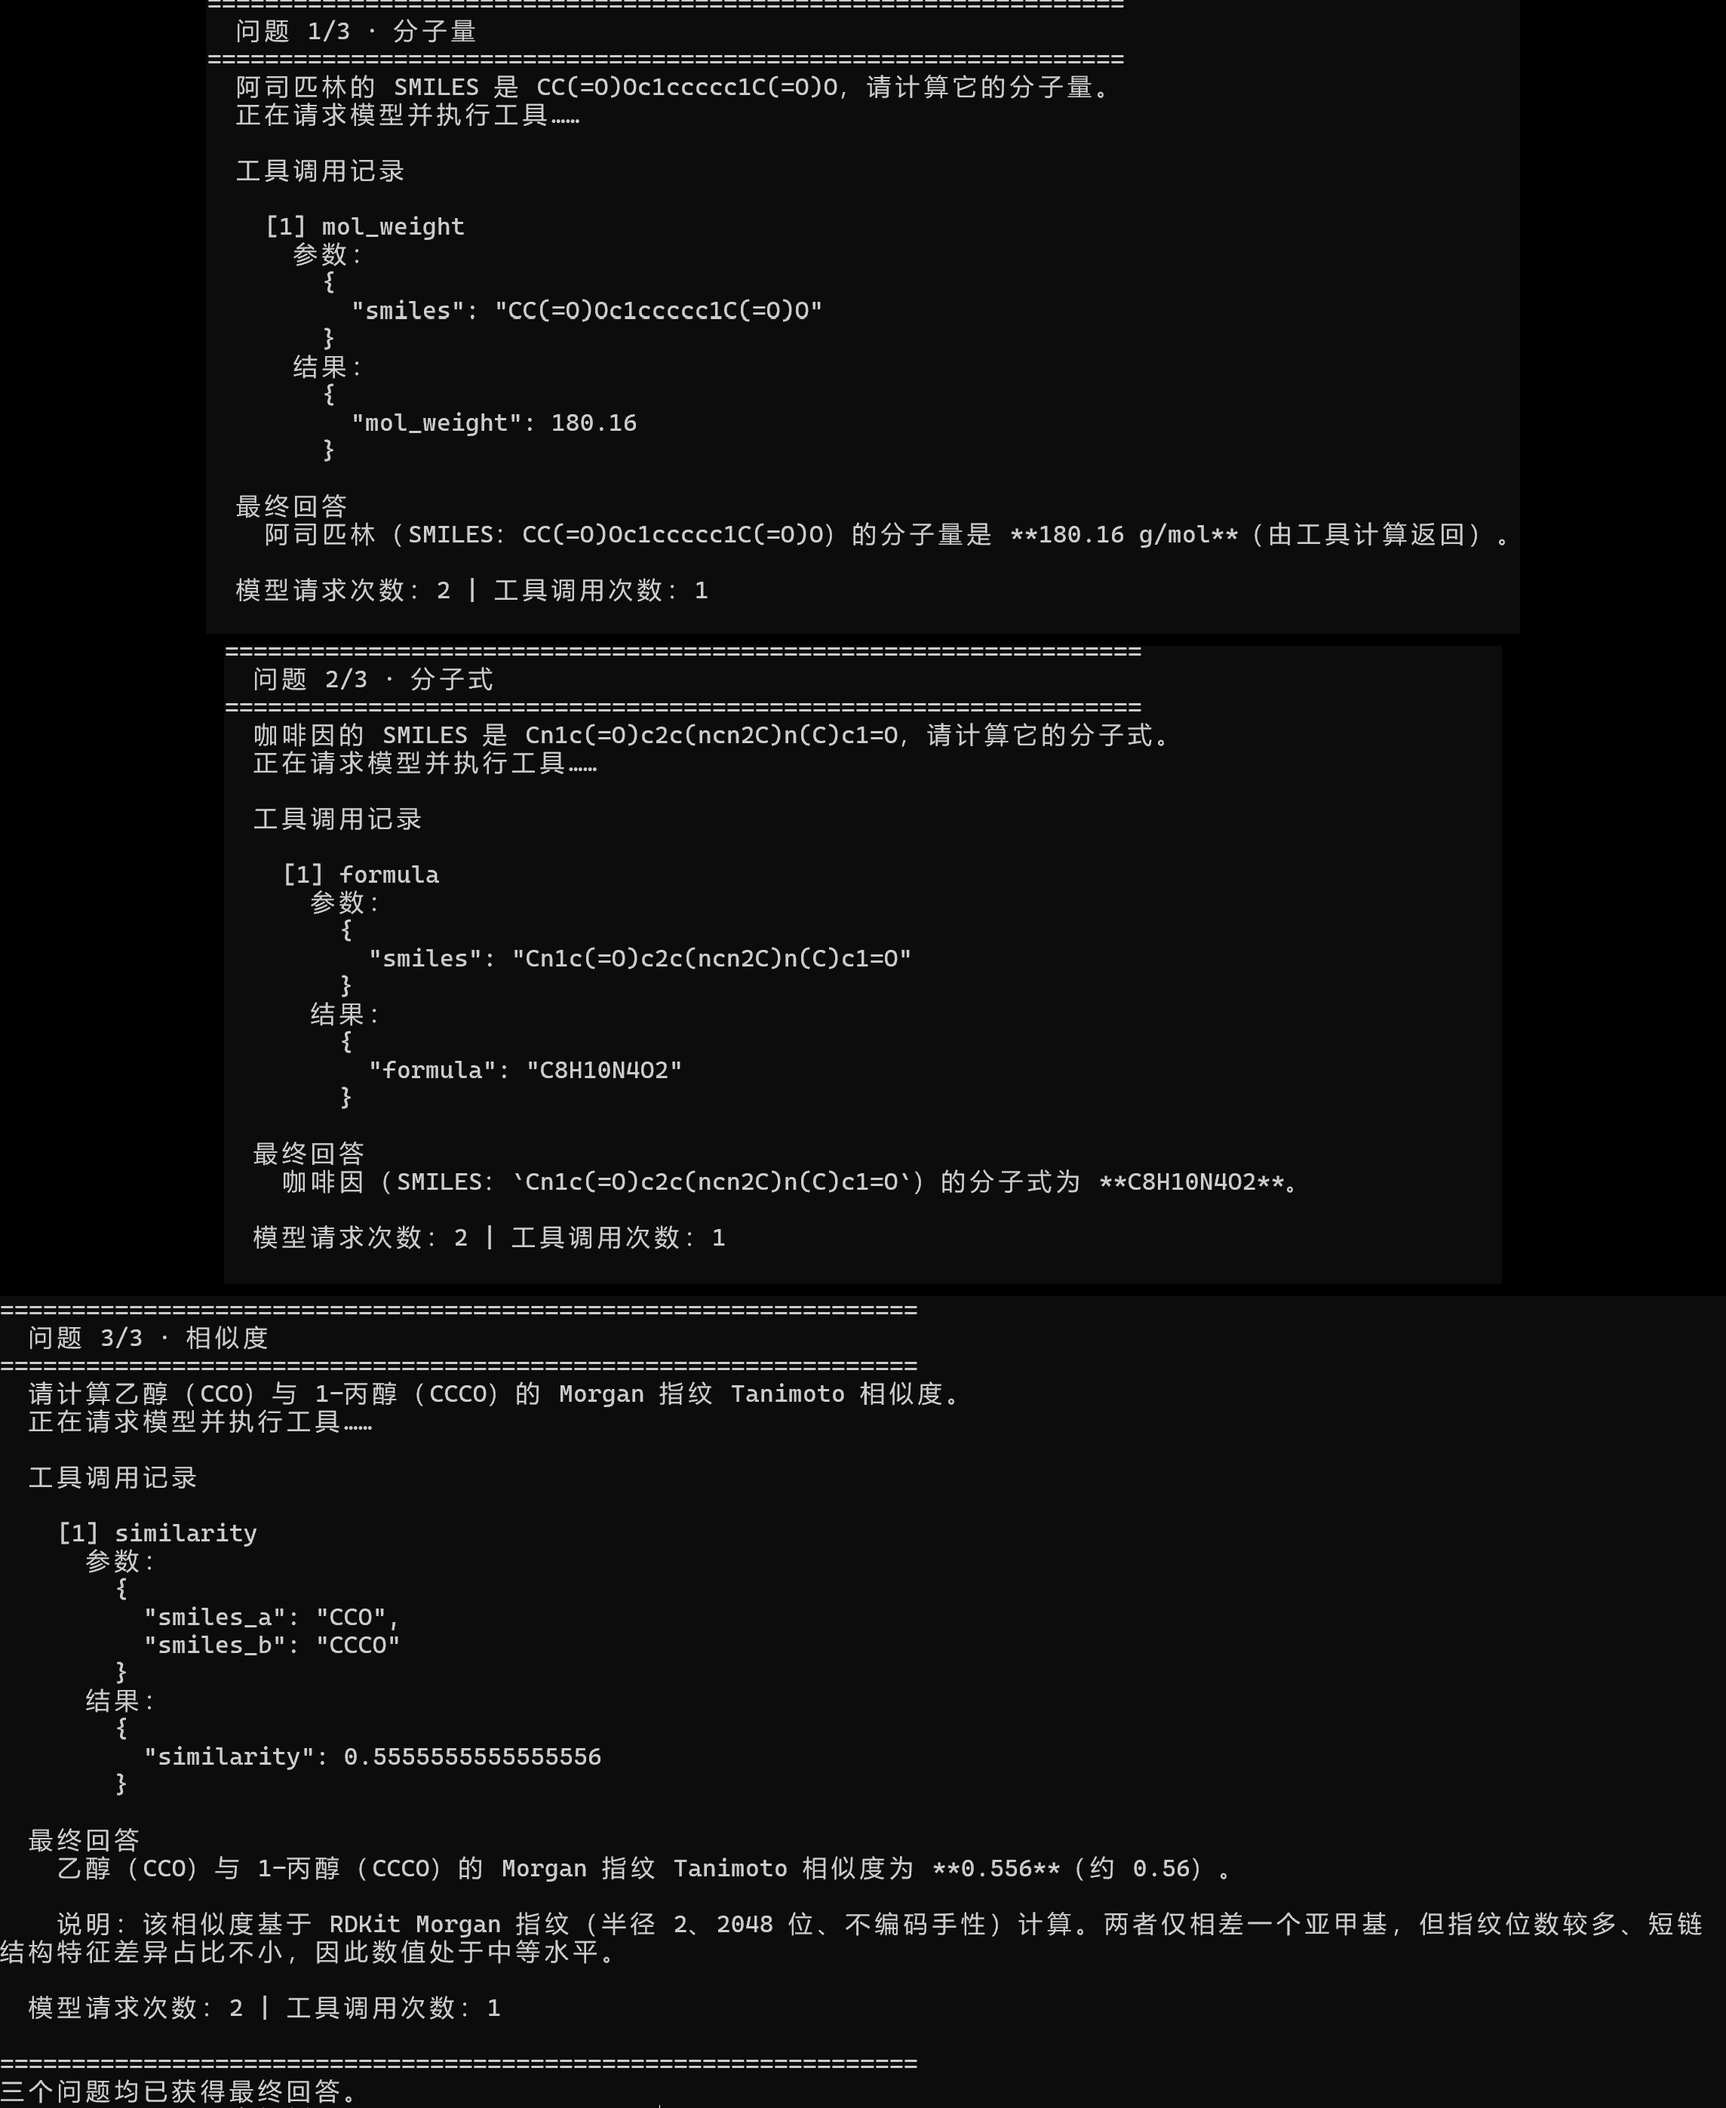
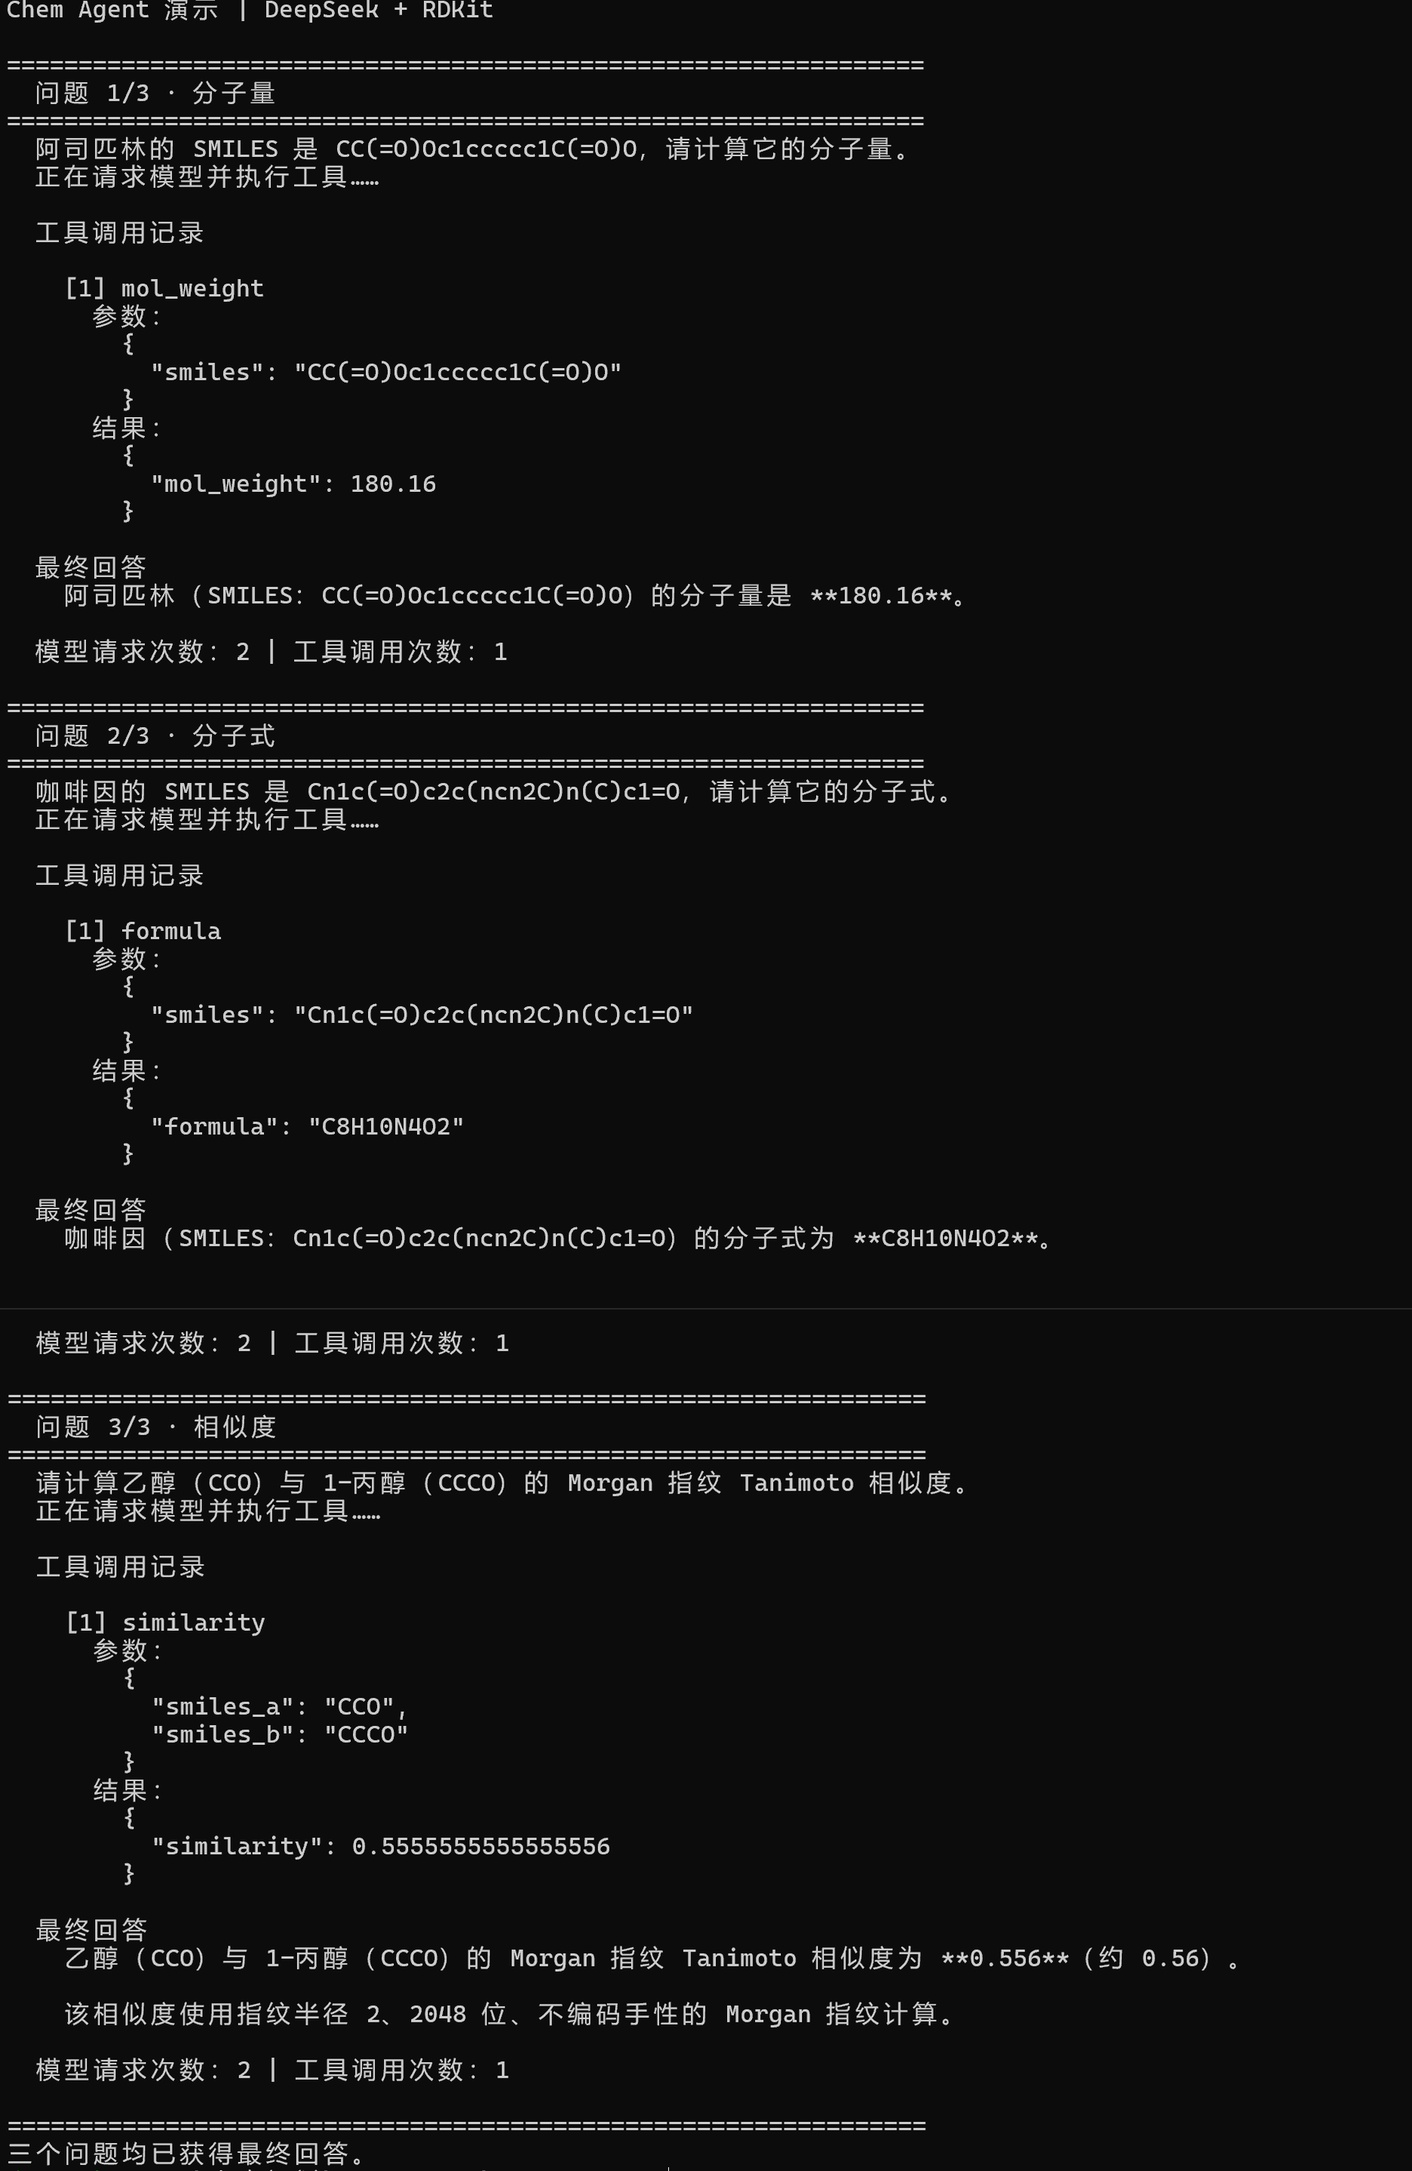
S7: add demo screenshot and sync progress docs

diff --git a/docs/03-当前进度.md b/docs/03-当前进度.md
@@ -2,11 +2,11 @@
 
 ## 2026-10-19：S7 演示截图与文档同步
 
-- [x] 确认已有 `docs/images/demo.png` 是三道题的终端输出拼图，并原样纳入仓库；没有生成或改造图片。
+- [x] 确认已有 `docs/images/demo.png` 是三道题的终端输出拼图；本次更新为 nana 对齐拼接的版本，原样纳入仓库，没有生成或改造图片。README 中英文仍引用同一路径。
 - [x] README 中英文新增“演示 / Demo”小节，引用同一张图，说明来自 `examples/demo.py`，内容为阿司匹林分子量、咖啡因分子式、乙醇与 1-丙醇相似度。
 - [x] 根据用户提供的推送状态，将 S1–S6 的过时提交说明同步为已由 Haru 推到 [GitHub](https://github.com/czhou143/chem-agent)；这不表示本次重新联网核验了远程提交。
-- [x] 本步只新增已有图片和修改文档；不修改代码逻辑、题集或 `eval/results/`，不运行真实评测，不调用真实模型 API。
-- [x] `.venv` 全部测试：`python -m pytest -q` → **198 passed in 4.97s**，与 S6 的测试数量一致。
+- [x] 本步只收录、更新已有图片和修改文档；不修改代码逻辑、题集或 `eval/results/`，不运行真实评测，不调用真实模型 API。
+- [x] 图片更新后重新运行 `.venv` 全部测试：`python -m pytest -q` → **198 passed in 9.30s**，与 S6 和首次 S7 的测试数量一致。
 - S7 本次只 commit，不 push；上述 Haru 推送状态对应此前步骤。
 
 ## 2026-10-19：S6 MCP stdio 服务
